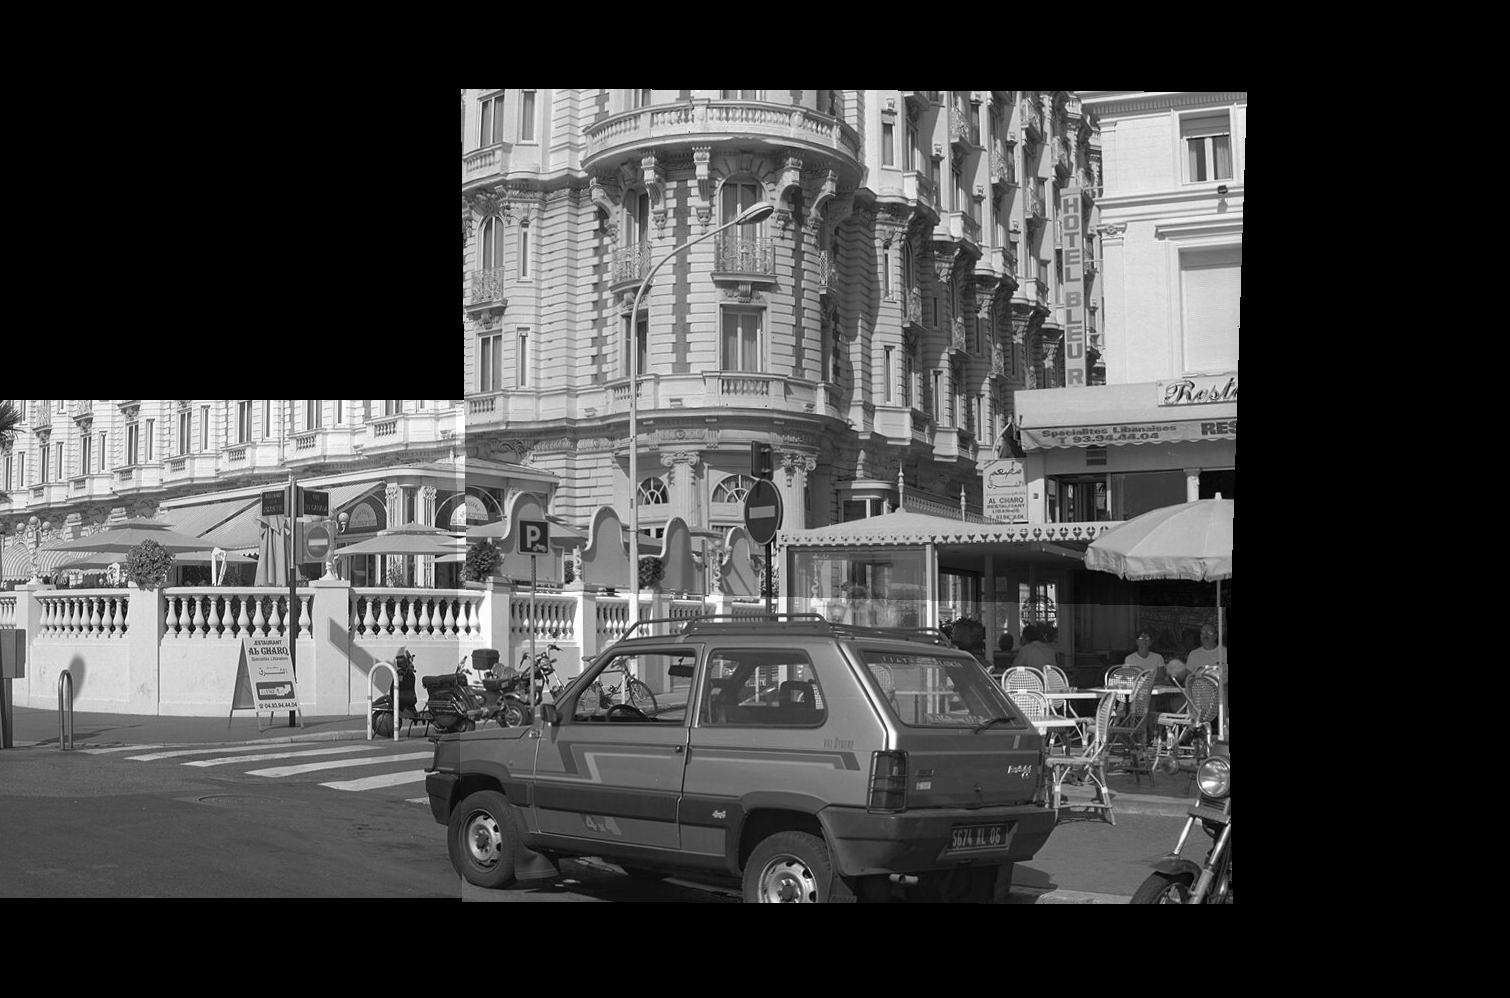
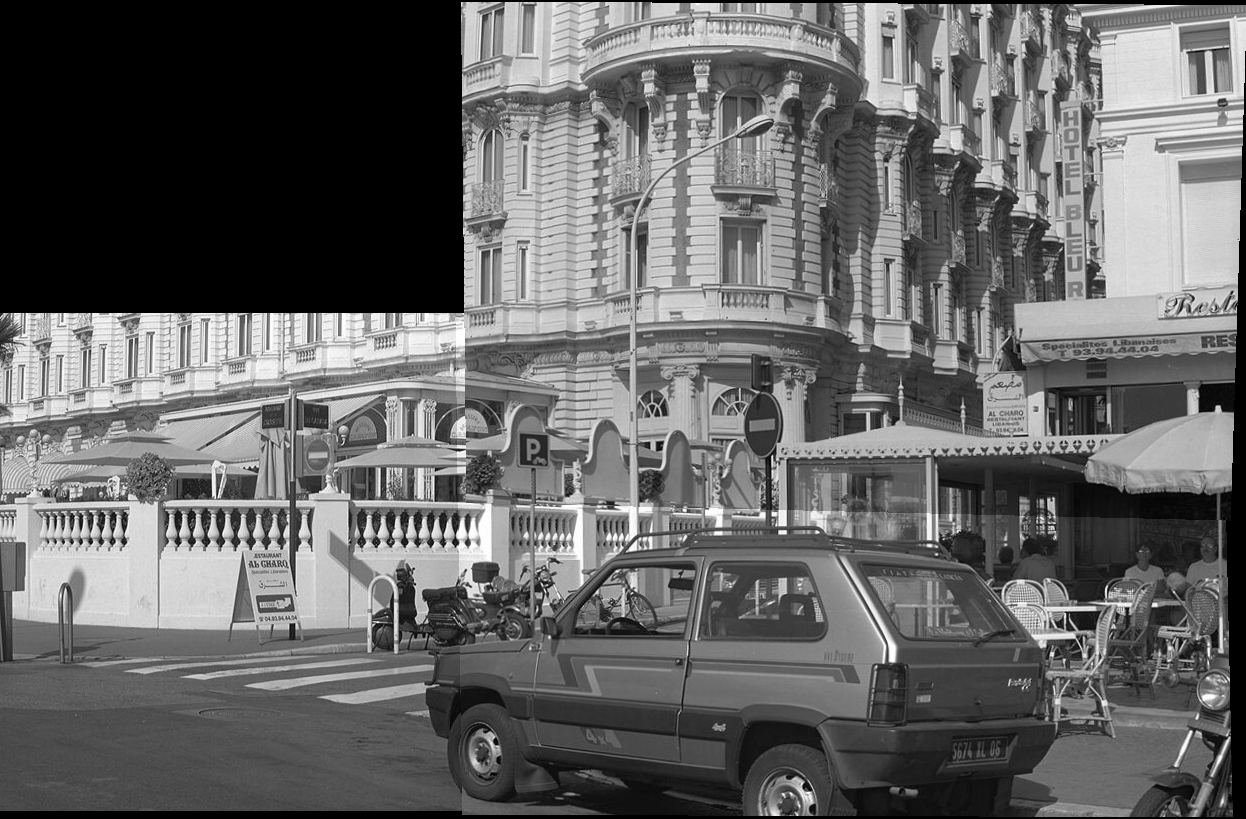
Versao para entregar

diff --git a/src/homography/homography.cpp b/src/homography/homography.cpp
@@ -26,7 +26,7 @@ vector<HomographyModel> computeHomographies(vector<Mat>& I) {
 
   for (size_t i = 0; i < I.size()-1; i++) {
     vector<vector<DMatch>> nn_matches;
-    matcher.knnMatch(desc[i], desc[i+1], nn_matches, 2);
+    matcher.knnMatch(desc[i+1], desc[i], nn_matches, 2);
 
     int n_match = 0;
     for (vector<DMatch>& vm : nn_matches) {
@@ -38,7 +38,7 @@ vector<HomographyModel> computeHomographies(vector<Mat>& I) {
 
     for (auto v : nn_matches) {
       for (auto mt : v) {
-        p.emplace_back(m[i][mt.queryIdx].pt, m[i+1][mt.trainIdx].pt);
+        p.emplace_back(m[i+1][mt.queryIdx].pt, m[i][mt.trainIdx].pt);
       }
     }
 
@@ -49,79 +49,3 @@ vector<HomographyModel> computeHomographies(vector<Mat>& I) {
 
   return H;
 }
-// #include <opencv2/stitching/detail/autocalib.hpp>
-// int main(int argc, char **argv) {
-
-//   vector<Mat> I(n);
-//   vector<Mat> H(n);
-//   vector<Mat> R(n);
-
-//   for(int i = 0; i < n; i++) {
-//     char str[255];
-//     sprintf(str, "%s/%d.JPG", path.c_str(), i+1);
-//   }
-
-//   double focal = 0;
-//   int n_focal = 0;
-
-//   for(int i = 0; i < n-1; i++) {
-//     Mat &I1 = I[i], &I2 = I[i+1];
-
-//     Ptr<AKAZE> D = AKAZE::create();
-//     vector<KeyPoint> m1, m2;
-//     Mat desc1, desc2;
-//     D->detectAndCompute(I1, noArray(), m1, desc1);
-//     D->detectAndCompute(I2, noArray(), m2, desc2);
-
-//     Mat J1, J2;
-
-//     BFMatcher matcher(NORM_HAMMING);
-//     vector<vector<DMatch>> nn_matches;
-//     matcher.knnMatch(desc1, desc2, nn_matches, 2);
-
-//     int n_match = 0;
-//     for (vector<DMatch> &vm : nn_matches) {
-//       if (vm[0].distance < vm[1].distance * 0.8)
-//         vm.pop_back(), n_match++;
-//       else
-//         vm.clear();
-//     }
-
-//     vector<Point2f> p1, p2;
-
-//     for (auto v : nn_matches) {
-//       for (auto m : v) {
-//         p1.push_back(m1[m.queryIdx].pt);
-//         p2.push_back(m2[m.trainIdx].pt);
-//       }
-//     }
-
-//     H[i+1] = findHomography(p2, p1, RANSAC);
-
-//     // double f0, f1;
-//     // bool f0_ok, f1_ok;
-//     // detail::focalsFromHomography(H[i+1], f0, f1, f0_ok, f1_ok);
-//     // if(f0_ok and f1_ok) focal += sqrt(f0*f1), n_focal++;
-//   }
-
-//   // focal /= n_focal;
-//   // printf("f: %f\n", focal);
-
-//   // Mat K = Mat::eye(3,3, CV_64F);
-//   // K.at<double>(0,0) = K.at<double>(1,1) = focal;
-  
-
-//   Mat K = Mat::zeros(5* I[0].rows, 25 * I[0].cols, CV_8U);
-//   Mat H_cur = Mat::eye(3,3, CV_64F);
-//   H[3] = H_cur;
-//   for (int i = 3; i < n; i++) {
-//     H_cur = H[i]*H_cur;
-//     warpPerspective(I[i], K, H_cur, K.size(), INTER_LINEAR, BORDER_TRANSPARENT);
-//     // R[i] = (K.inv()*H[i]*K).inv();
-//   }
-
-//   imwrite("panorama.jpg", K);
-
-
-//   return 0;
-// }

diff --git a/src/test/test.cpp b/src/test/test.cpp
@@ -9,8 +9,7 @@
 using namespace std;
 using namespace Eigen;
 
-void random_measurements(Matrix3d& H, vector<Point2f>& src, vector<Point2f>& dst) {
-  const int n = 1000;
+void random_measurements(Matrix3d& H, vector<Point2f>& src, vector<Point2f>& dst, int n) {
   src.clear();
   dst.clear();
   H = Matrix3d::Random();
@@ -63,28 +62,36 @@ int main() {
   cout << H << endl;
 
   Matrix3d real_H;
+  double opencv = 0, our = 0;
+  for(int i = 0; i < 1000; i++) {
+    random_measurements(real_H, src, dst, 10000);
+    start = chrono::high_resolution_clock::now();
+    H = findHomography(src, dst, CV_RANSAC);
+    finish = chrono::high_resolution_clock::now();
+    opencv += chrono::duration<double>(finish-start).count();
+    // cout << "Real H:\n" << real_H << endl;
+    // cout << "OpenCV's H: " << chrono::duration<double>(finish - start).count()
+        //  << " s" << endl;
+    // cout << H << endl;
 
-  random_measurements(real_H, src, dst);
-  start = chrono::high_resolution_clock::now();
-  H = findHomography(src, dst, CV_RANSAC);
-  finish = chrono::high_resolution_clock::now();
-  cout << "Real H:\n" << real_H << endl;
-  cout << "OpenCV's H: " << chrono::duration<double>(finish-start).count() << " s" << endl;
-  cout << H << endl;
+    measurements.clear();
+    for (size_t i = 0; i < src.size(); i++) {
+      measurements.emplace_back(src[i], dst[i]);
+    }
 
-  measurements.clear();
-  for(size_t i = 0; i < src.size(); i++) {
-    measurements.emplace_back(src[i], dst[i]);
+    start = chrono::high_resolution_clock::now();
+    auto my_H =
+        ransac<HomographyModel, HomographyMeasurement, ComputeHomographyModel,
+               ComputeHomographyError, 4>(measurements);
+    finish = chrono::high_resolution_clock::now();
+    our += chrono::duration<double>(finish-start).count();
+
+    // cout << "Our H: " << chrono::duration<double>(finish - start).count()
+        //  << " s" << endl;
+    // my_H.print();
   }
-
-
-  start = chrono::high_resolution_clock::now();
-  auto my_H = ransac<HomographyModel, HomographyMeasurement, ComputeHomographyModel, ComputeHomographyError, 4>
-  (measurements);
-  finish = chrono::high_resolution_clock::now();
-
-  cout << "Our H: " << chrono::duration<double>(finish-start).count() << " s" << endl;
-  my_H.print();
+  cout << "OpenCV's: " << opencv << " s" << endl;
+  cout << "Ours: " << our << " s" << endl;
 
   return EXIT_SUCCESS;
 }

diff --git a/src/main.cpp b/src/main.cpp
@@ -5,40 +5,32 @@
 #include <map>
 
 #include <opencv2/opencv.hpp>
+#include <opencv2/stitching/detail/warpers.hpp>
 
-#include "utils/files.hpp"
 #include "homography/homography.hpp"
-#include "cilindrical/focal.hpp"
 
 using namespace std;
 using namespace cv;
 
 int main(int argc, char** argv) {
-  // Usage message
-  if(argc != 2) {
-    printf("Usage: %s [path to data]\n", argv[0]);
-    printf("Example: %s data/pano1\n", argv[0]);
-    exit(EXIT_FAILURE);
-  }
-
-  // get arguments
-  string path = argv[1];
-  
   // read images
-  vector<Mat> I = readImagesInFolder(path);
+  vector<Mat> I(3);
+  I[0] = imread("../data/pano1/1.jpg", IMREAD_GRAYSCALE);
+  I[1] = imread("../data/pano1/2.jpg", IMREAD_GRAYSCALE);
+  I[2] = imread("../data/pano1/3.jpg", IMREAD_GRAYSCALE);
 
   vector<HomographyModel> H = computeHomographies(I);
 
-  double focal = 4000;
+  Mat O = Mat::zeros(2*I[0].rows, 2*I[0].cols, CV_8U);
+  Mat H_cur = Mat::eye(3,3, CV_64F);
+  Mat T = Mat::eye(3,3, CV_64F);
+  T.at<double>(1,2) = I[0].cols/2.;
 
-  // Mat K = Mat::zeros(2* I[0].rows, 2 * I[0].cols, CV_8U);
-  // Mat H_cur = Mat::eye(3,3, CV_64F);
-  // H_cur.at<double>(1,2) = -.8*I[0].rows;
-  // for (int i = 0; i < 3; i++) {
-  //   warpPerspective(I[i], K, H_cur, K.size(), INTER_LINEAR | WARP_INVERSE_MAP, BORDER_TRANSPARENT);
-  //   H_cur = H[i].toMat()*H_cur;
-  // }
-  // imshow("panorama.jpg", K);
+  for(size_t i = 0; i < I.size(); i++) {
+    warpPerspective(I[i], O, T*H_cur, O.size(), INTER_LINEAR, BORDER_TRANSPARENT);
+    H_cur = H[i].toMat()*H_cur;
+  }
+  imshow("panorama.jpg", O);
 
   waitKey(0);
 

diff --git a/src/cylindrical/warper.cpp b/src/cylindrical/warper.cpp
@@ -1,0 +1,19 @@
+#include "cylindrical/warper.hpp"
+
+#include <opencv2/opencv.hpp>
+
+using namespace cv;
+
+void cylindrical_warp(Mat I, Mat O, double f, double s) {
+  double xc = I.cols/2.;
+  double yc = I.rows/2.;
+  for(int y = 0; y < I.rows; y++) {
+    for(int x = 0; x < I.cols; x++) {
+      double xi = x-xc, yi = y-yc;
+      double tgo = xi/f;
+      double theta = atan(tgo);
+      double h = yi/f;
+      O.at<double>(s*h, s*theta) = I.at<double>(y,x);
+    }
+  }
+}

diff --git a/src/cylindrical/focal.cpp b/src/cylindrical/focal.cpp
@@ -1,4 +1,4 @@
-#include "cilindrical/focal.hpp"
+#include "cylindrical/focal.hpp"
 
 #include <opencv2/stitching/detail/autocalib.hpp>
 #include <iostream>

diff --git a/include/cylindrical/warper.hpp b/include/cylindrical/warper.hpp
@@ -1,0 +1,2 @@
+#pragma once
+

diff --git a/README.md b/README.md
@@ -4,25 +4,16 @@ Implementation of a generic RANSAC (Random sample consensus) in C++ and of Image
 ## Dependencies
 - CMake
 - OpenCV
-- C++17
 
-<hr>
+## Running
+```
+mkdir build
+cd build
+cmake ..
+make
+./ransac
+./test
+```
 
-## TO-DO
-
-- RANSAC
-  - Change RANSAC's sample for an optimized implementation
-- Generic -> Specific:
-  - Implement homography classes: 
-    - [x] homography model,
-    - [x] pair measurement,
-    - [x] compute homography,
-    - [x] compute error of homography
-  - Implement linear classes: 
-    - linear model,
-    - point measurement,
-    - compute line,
-    - compute error from line
-- Image Stitching:
-  - How to match multiple images
-  - Convert homographies -> cylindrical projection
+`ransac` shows the stitching of 3 images
+`test` shows the performance comparison between OpenCV and our method.
